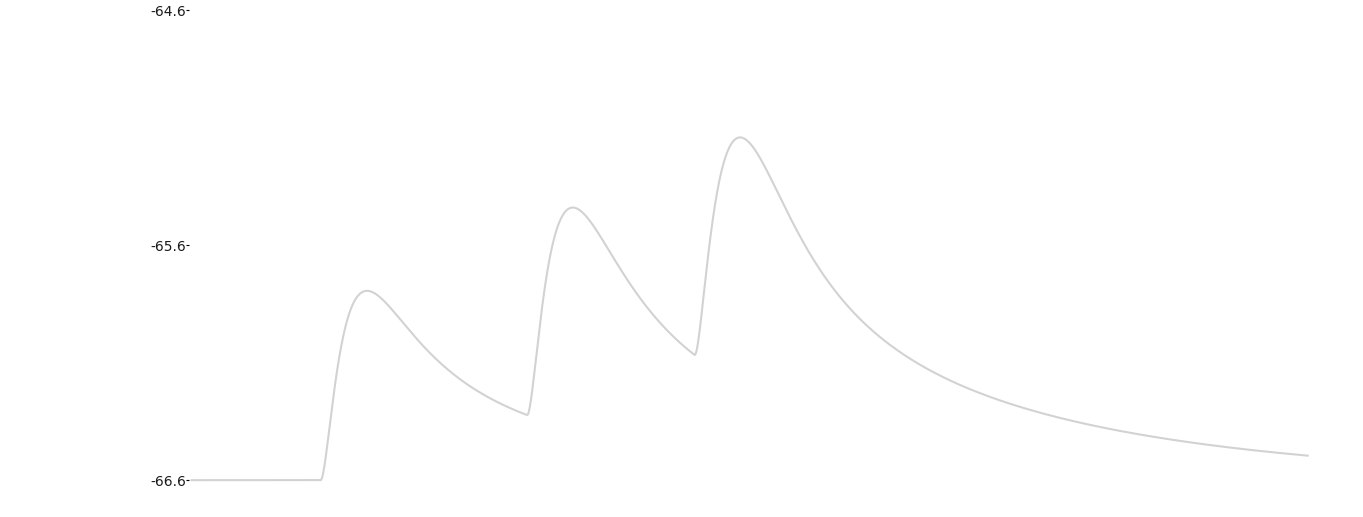
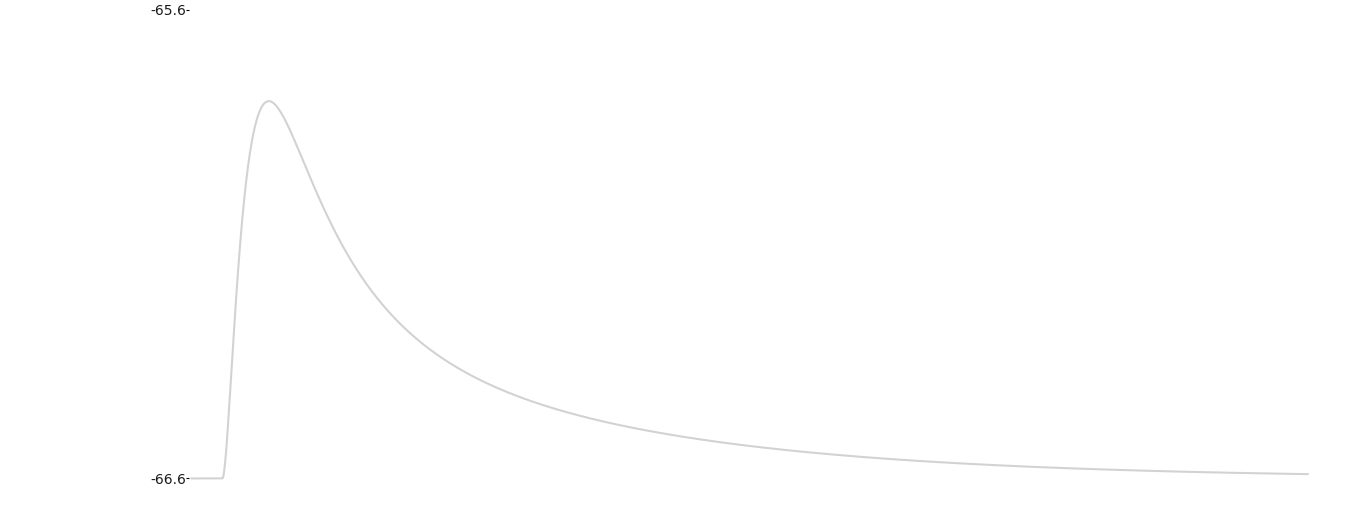
added text plates, wrote the exec part for file caching

diff --git a/run.py b/run.py
@@ -31,10 +31,13 @@ calc_button = pyglet.gui.PushButton(1259, 404, pyglet.resource.image('png/button
 cache_clear_button = pyglet.gui.PushButton(1259, 159, pyglet.resource.image('png/buttons/delete_button_pressed.png'), pyglet.resource.image('png/buttons/delete_button_unpressed.png'), batch=batch, group=foreground)
 cache_button = pyglet.gui.ToggleButton(1259, 281, pyglet.resource.image('png/buttons/display_button_pressed.png'), pyglet.resource.image('png/buttons/display_button_unpressed.png'), batch=batch, group=foreground)
 
-cache_picture =  pyglet.sprite.Sprite(image.load('png/plotting/empty.png'), -29, 60, batch=undrawable, group=foreground)
+background_plate_1 = [classes.Dropdown(1477, 970, image.load('png/sliders/text_plate.png'), image.load('png/sliders/text_plate.png'), batch=batch), classes.Dropdown(1537, 970, image.load('png/sliders/text_plate.png'), image.load('png/sliders/text_plate.png'), batch=undrawable), classes.Dropdown(1597, 970, image.load('png/sliders/text_plate.png'), image.load('png/sliders/text_plate.png'), batch=undrawable)]
+background_plate_2 = [classes.Dropdown(1477, 849, image.load('png/sliders/text_plate.png'), image.load('png/sliders/text_plate.png'), batch=batch), classes.Dropdown(1537, 849, image.load('png/sliders/text_plate.png'), image.load('png/sliders/text_plate.png'), batch=undrawable), classes.Dropdown(1597, 849, image.load('png/sliders/text_plate.png'), image.load('png/sliders/text_plate.png'), batch=undrawable)]
+background_plate_3 = [classes.Dropdown(1477, 728, image.load('png/sliders/text_plate.png'), image.load('png/sliders/text_plate.png'), batch=batch), classes.Dropdown(1537, 728, image.load('png/sliders/text_plate.png'), image.load('png/sliders/text_plate.png'), batch=undrawable), classes.Dropdown(1597, 708, image.load('png/sliders/text_plate.png'), image.load('png/sliders/text_plate.png'), batch=undrawable)]
+background_plate_4 = [classes.Dropdown(1477, 607, image.load('png/sliders/text_plate.png'), image.load('png/sliders/text_plate.png'), batch=batch), classes.Dropdown(1537, 607, image.load('png/sliders/text_plate.png'), image.load('png/sliders/text_plate.png'), batch=undrawable), classes.Dropdown(1597, 607, image.load('png/sliders/text_plate.png'), image.load('png/sliders/text_plate.png'), batch=undrawable)]
 
 background_picture = pyglet.sprite.Sprite(image.load('png/background.png'), 0, 0, batch=batch_background, group=background)
-clear_button = pyglet.gui.PushButton(1259, 34, pyglet.resource.image('png/buttons/clear_button_pressed.png'), pyglet.resource.image('png/buttons/clear_button_unpressed.png'), )
+clear_button = pyglet.gui.PushButton(1259, 34, pyglet.resource.image('png/buttons/clear_button_pressed.png'), pyglet.resource.image('png/buttons/clear_button_unpressed.png'),batch=batch)
 plus_button = classes.Dropdown(1859, 973, pyglet.resource.image('png/buttons/cross_pressed.png'), pyglet.resource.image('png/buttons/cross_unpressed.png'), batch=undrawable)
 plus_button_1 = classes.Dropdown(1859, 852, pyglet.resource.image('png/buttons/cross_pressed.png'), pyglet.resource.image('png/buttons/cross_unpressed.png'), batch=undrawable)
 plus_button_2 = classes.Dropdown(1859, 731, pyglet.resource.image('png/buttons/cross_pressed.png'), pyglet.resource.image('png/buttons/cross_unpressed.png'), batch=undrawable)
@@ -105,12 +108,14 @@ def add_spike_time(n, list_, spike_time, button):
             sldisp.dispatch_event('slider_deactivate', button, undrawable)
         else:
             sldisp.dispatch_event('slider_activate', button, batch)
+            
     elif len(list_) >= n+1: 
         list_[n] = spike_time
         if n == 2:
             sldisp.dispatch_event('slider_deactivate', button, undrawable)
         else:
             sldisp.dispatch_event('slider_activate', button, batch)
+            
     else:
         pass
         
@@ -190,13 +195,12 @@ def on_toggle(boole):
 def on_release():
     calculator.dispatch_event('count_')
 @cache_button.event
-def on_release():
-    cache_picture.image = image.load('png/plotting/plotting_c.png')
-    cache_picture.batch = batch
+def on_toggle(arg):
+    window.dispatch_event('update_cache', image.load('png/plotting/plotting_c.png'))
     calculator.cache = True
 @cache_clear_button.event
 def on_release():
-    cache_picture.batch = undrawable
+    window.dispatch_event('update_cache', image.load('png/plotting/empty.png'))
     calculator.cache = False
 @clear_button.event
 def on_release():
@@ -211,14 +215,13 @@ def on_release():
     slider_4.value = 0
     window.spike_times = spike_times
     null(window.spike_times)
-    print(window.spike_times)
+    
     spike_time_batch.invalidate()
    
     window.dispatch_event('update_pic', image.load('png/plotting/empty.png'))
 @calculator.event
 def count_():
     window.dispatch_event('update_wait', image.load('png/please_wait.png'))
-    print(calculator.strengths)
     calculator.proc = Popen(utils.CompartmentEncoder.popen_generator([calculator.t_1_list, calculator.t_list, calculator.t_3_list, calculator.t_2_list], calculator.strengths, calculator.cache))
     pyglet.clock.schedule_interval(update, 1/2) 
     #temporary running block
@@ -228,9 +231,8 @@ def count_():
 def update(dt):
     try: 
         if calculator.proc.poll() != None:
-            cache_picture.image = image.load('png/plotting/plotting_c.png')
+            window.dispatch_event('update_cache', image.load('png/plotting/plotting_c.png'))
             pyglet.clock.schedule_interval(drawing_plot, 1/30, picture=image.load('png/plotting/plotting.png'))
-            
             pyglet.clock.unschedule(update)
     except BaseException:
         pass   
@@ -238,7 +240,6 @@ def update(dt):
 
 @endofcalcdisp.event
 def drawing_plot(dt, picture):
-    
     window.dispatch_event('update_wait', image.load('png/plotting/empty.png'))
     endofcalcdisp.count += 1
     if endofcalcdisp.count <= picture.width:
@@ -268,8 +269,8 @@ def on_change(val):
 @slider_3.event
 def on_change(val):
     spike_time = int(round(val*runtime_constant, 0))
-    add_spike_time(calculator.n[2], calculator.t_2_list, spike_time, plus_button_2)
-    add_spike_time(calculator.n[2], window.spike_times[2],pyglet.text.Label(f'{str(spike_time)}', font_size=17, font_name = 'calibri', color=(20, 20, 20, 255), x=(1480+calculator.n[2]*60), y=736, batch=spike_time_batch), plus_button_2)
+    add_spike_time(calculator.n[2], calculator.t_2_list, spike_time, plus_button_2, )
+    add_spike_time(calculator.n[2], window.spike_times[2], pyglet.text.Label(f'{str(spike_time)}', font_size=17, font_name = 'calibri', color=(20, 20, 20, 255), x=(1480+calculator.n[2]*60), y=736, batch=spike_time_batch), plus_button_2)
     
   
 @slider_4.event
@@ -284,24 +285,32 @@ def on_release():
     time_length_counter(0)
     plus_button.enabled = False
     sldisp.dispatch_event('slider_deactivate', plus_button, undrawable)
+    if calculator.n[0]<=2:
+        sldisp.dispatch_event('slider_activate', background_plate_1[(calculator.n[0])], batch)
 @plus_button_1.event
 def on_release():
     time_length_counter(1)
-    
+    if calculator.n[1]<=2:
+        sldisp.dispatch_event('slider_activate', background_plate_2[(calculator.n[1])], batch)
     sldisp.dispatch_event('slider_deactivate', plus_button_1, undrawable)
 @plus_button_2.event
 def on_release():
     time_length_counter(2)
-    
+    if calculator.n[2]<=2:
+        sldisp.dispatch_event('slider_activate', background_plate_3[(calculator.n[2])], batch)
     sldisp.dispatch_event('slider_deactivate', plus_button_2, undrawable)
 @plus_button_3.event
 def on_release():
     time_length_counter(3)
     sldisp.dispatch_event('slider_deactivate', plus_button_3, undrawable)
-
+    if calculator.n[3]<=2:
+        sldisp.dispatch_event('slider_activate', background_plate_4[(calculator.n[3])], batch)
 @window.event
 def update_pic(picture):
     window.plot_sprite.image = picture
+@window.event
+def update_cache(picture):
+    window.plot_cache.image = picture
 @window.event
 def update_wait(picture):
     window.plot_wait.image = picture
@@ -311,6 +320,7 @@ def on_draw():
     batch_background.draw()
     window.plot_sprite.draw()
     window.plot_wait.draw()
+    window.plot_cache.draw()
     window.window_batch.draw()
     batch.draw()
     spike_time_batch.draw()

diff --git a/exect_hh.py b/exect_hh.py
@@ -4,10 +4,12 @@ import matplotlib.pyplot as plt
 import classes
 import matplotlib.transforms as trn
 from matplotlib.ticker import FormatStrFormatter
+import tempfile
+import os
 
 def calculate(timing, strength, caching):
-    print(timing)
-    print(strength)
+    print(caching)
+    
     
     defaultclock.dt = 0.01*ms
 
@@ -290,7 +292,7 @@ def calculate(timing, strength, caching):
     
 
     network.run(1000*ms, report='text')
-    def cache(x, y, does_cache, holder_list):
+    def cache(x, y, does_cache, prev_cache=''):
             '''
             Accepts a list of x coordinates, y coordinates of plot points and a true/false caching variable
             #x = st_mon.t[:]*1000
@@ -298,28 +300,61 @@ def calculate(timing, strength, caching):
             does_cache = False
             '''
             if does_cache:
-                holder_list.append(y)
+                if os.path.isfile(prev_cache):
+                    with open(prev_cache, mode='r') as f:
+                            a =f.read()
+                            add_cache=list(str(a).split(";"))
+                            for each in add_cache:     
+                                classes.Cacheholder.add_plot(list(each.split(",")))
+                    with open(prev_cache, mode='ab') as f:
+                        str_of_plot=''
+                        str_of_plot = [f'{str_of_plot+str(elem)},' for elem in y]
+                        strofplot = ''.join(str_of_plot)
+                        x = strofplot.strip(",")
+                        lineb = str.encode(x)
+                        f.write(b';')
+                        f.write(lineb)
+                        print(prev_cache)
+                else:
+                    str_of_plot=''
+                    str_of_plot = [f'{str_of_plot+str(elem)},' for elem in y]
+                    strofplot = ''.join(str_of_plot)
+                    x = strofplot.strip(",")
+                    lineb = str.encode(x)
+                    with tempfile.NamedTemporaryFile(mode="w+b", delete=False) as temp:
+                            temp.write(lineb)
+                            print(temp.name)
+                            temp.close()
+                classes.Cacheholder.add_plot(y)
                 fig, ax = plt.subplots(figsize=(15.15, 6.335)) 
-                for plots in holder_list[:len(holder_list)-1]:
+                for plots in classes.Cacheholder.list_of_plots[:-1]:
                     ax.plot(x, plots, '#d2d2d2', alpha = 0)
-                ax.plot(x, holder_list[-1],'#d2d2d2') 
+                ax.plot(x, classes.Cacheholder.list_of_plots[-1],'#d2d2d2') 
                 ax.yaxis.set_major_formatter(FormatStrFormatter('%.1f'))
                 ax.set_xlim(xmin=-2.0)
                 ax.tick_params(pad=0.0, labelsize=10, length=2, labelcolor='#1a1a1a')
                 fig_c, ax_c = plt.subplots(figsize=(15.15, 6.335)) 
-                for plots in holder_list[:len(holder_list)-1]:
+                for plots in classes.Cacheholder.list_of_plots[:-1]:
                     ax_c.plot(x, plots, '#404040')
-                ax_c.plot(x, holder_list[-1],'#d2d2d2', alpha=0)
+                ax_c.plot(x, classes.Cacheholder.list_of_plots[-1],'#d2d2d2', alpha=0)
                 ax_c.set_xlim(xmin=-2.0)
                 ax_c.tick_params(pad=0.0, labelsize=10, length=2, labelcolor='#1a1a1a')
                 ax_c.yaxis.set_major_formatter(FormatStrFormatter('%.1f'))
-                print('success cache')
-                return fig, ax, fig_c, ax_c, [min(y)/volt, max(y)/volt]
+                
+                figure, axes, figure_c, axes_c, list_of_max_min = fig, ax, fig_c, ax_c, [min(y)/volt, max(y)/volt]
             else: 
-                holder_list = []
-                holder_list.append(y)
+                if os.path.isfile(prev_cache):
+                    os.remove(prev_cache)
+                str_of_plot=''
+                str_of_plot = [f'{str_of_plot+str(elem)},' for elem in y]
+                strofplot = ''.join(str_of_plot)
+                x = strofplot.strip(",")
+                lineb = str.encode(x)
+                with tempfile.NamedTemporaryFile(mode="w+b", delete=False) as temp:
+                        temp.write(lineb)
+                        print(temp.name)
+                        temp.close()
                 fig, ax = plt.subplots(figsize=(15.15, 6.335)) 
-                # 13.13, 5.67
                 ax.plot(x, y, '#d2d2d2')
                 ax.set_xlim(xmin=-2.0)
                 ax.tick_params(pad=0.0, labelsize=10, length=2, labelcolor='#1a1a1a')
@@ -329,10 +364,10 @@ def calculate(timing, strength, caching):
                 ax_c.set_xlim(xmin=-2.0)
                 ax_c.tick_params(pad=0.0, labelsize=10, length=2, labelcolor='#1a1a1a')
                 ax.yaxis.set_major_formatter(FormatStrFormatter('%.1f'))
-                print('success no cache')
-                return fig, ax, fig_c, ax_c, [min(y)/volt, max(y)/volt]
+                figure, axes, figure_c, axes_c, list_of_max_min = fig, ax, fig_c, ax_c, [min(y)/volt, max(y)/volt]
+            return figure, axes, figure_c, axes_c, list_of_max_min
             
-    figure, axes, figure_c, axes_c, list_of_max_min = cache(st_mon.t[:]*1000, st_mon.v[0][:]*1000, caching, classes.Cacheholder.list_of_plots)
+    figure, axes, figure_c, axes_c, list_of_max_min = cache(st_mon.t[:]/msecond, st_mon.v[0][:]/mV, caching)
     return figure, axes, figure_c, axes_c, list_of_max_min
 
 
@@ -359,21 +394,21 @@ def save_plot(figure, axes, y, name='plotting'):
 
 
 if __name__ == "__main__":    
-    #я потрогала
+    
     slider1, slider2, slider3, slider4, receptor1, receptor2, receptor3, receptor4, cache = utils.CompartmentEncoder.arg_acceptor()
     
     slider1_read = utils.CompartmentEncoder.time_decoder(slider1)
     slider2_read = utils.CompartmentEncoder.time_decoder(slider2)
     slider3_read = utils.CompartmentEncoder.time_decoder(slider3)
     slider4_read = utils.CompartmentEncoder.time_decoder(slider4)
-
+    
     receptor1_read = utils.CompartmentEncoder.bool_decoder(receptor1)
     receptor2_read = utils.CompartmentEncoder.bool_decoder(receptor2)
     receptor3_read = utils.CompartmentEncoder.bool_decoder(receptor3)
     receptor4_read = utils.CompartmentEncoder.bool_decoder(receptor4)
 
-    cache_read = bool(cache)
-
+    cache_read = bool(int(cache))
+    
     plots = calculate([slider1_read, slider2_read, slider3_read, slider4_read], [receptor1_read, receptor2_read, receptor3_read, receptor4_read], cache_read)
     figure, axes = plots[0], plots[1]
     figure_c, axes_c = plots[2], plots[3]

diff --git a/classes.py b/classes.py
@@ -2,28 +2,55 @@ import pyglet
 import time
 from pyglet import image
 from pyglet.event import EventDispatcher
-
+import os
 
 class HelloWorldWindow(pyglet.window.Window):
-    def __init__(self, spike_times, width, height):
+    def __init__(self, spike_times, width, height, cachefilepath=''):
         super().__init__(width, height)
         self.plot_sprite = pyglet.sprite.Sprite(image.load('png/plotting/empty.png'), -110, 75) 
         self.plot_wait = pyglet.sprite.Sprite(image.load('png/plotting/empty.png'),0, 0)
+        self.plot_cache = pyglet.sprite.Sprite(image.load('png/plotting/empty.png'),-110, 75)
         self.window_batch = pyglet.graphics.Batch()
         self._spike_times = spike_times
+        self.cachefilepath = cachefilepath
     def on_draw(self):
         pass
     def update_pic(self, picture):
         pass
     def update_wait(self, picture):
         pass
+    def update_cache(self, picture):
+        pass
+    def close(self):
+        """Close the window.
+
+        After closing the window, the GL context will be invalid.  The
+        window instance cannot be reused once closed (see also `set_visible`).
+
+        The `pyglet.app.EventLoop.on_window_close` event is dispatched on
+        `pyglet.app.event_loop` when this method is called.
+        """
+        if os.path.isfile(self.cachefilepath):
+                    os.remove(self.cachefilepath)
+        from pyglet import app
+        if not self._context:
+            return
+        app.windows.remove(self)
+        self._context.destroy()
+        self._config = None
+        self._context = None
+        if app.event_loop:
+            app.event_loop.dispatch_event('on_window_close', self)
+        self._event_queue = []
+        
     @property
     def spike_times(self):
         return self._spike_times
     @spike_times.setter
     def spike_times(self,value):
         self._spike_times = value
-        
+
+
 class MyEventDisp(EventDispatcher):
     
     def __init__(self) -> None:
@@ -145,8 +172,15 @@ class Dropdown(pyglet.gui.PushButton):
 
 class Cacheholder():
     list_of_plots = []
+    first_plot = []
     def __init__(self) -> None:
         pass
+    @classmethod
+    def add_plot(cls, plot):
+        Cacheholder.list_of_plots.append(plot)
+    @classmethod
+    def set_first_plot(cls, plot):
+        Cacheholder.first_plot.append(plot)
 
         
 
@@ -158,6 +192,7 @@ SliderDispathcher.register_event_type('slider_activate')
 SliderDispathcher.register_event_type('slider_deactivate')
 HelloWorldWindow.register_event_type('update_pic')
 HelloWorldWindow.register_event_type('update_wait')
+HelloWorldWindow.register_event_type('update_cache')
 MyEventDisp.register_event_type('count_d')
 MyEventDisp.register_event_type('update')
 Counter.register_event_type('count_')

diff --git a/utils.py b/utils.py
@@ -141,7 +141,7 @@ class CompartmentEncoder():
         for each in strengths_list:
             each = [int(every) for every in each]
             cmd_list.append(self.coder(each))
-        cmd_list.append(str(cache))
+        cmd_list.append(str(int(cache)))
         return cmd_list
     
     @classmethod
